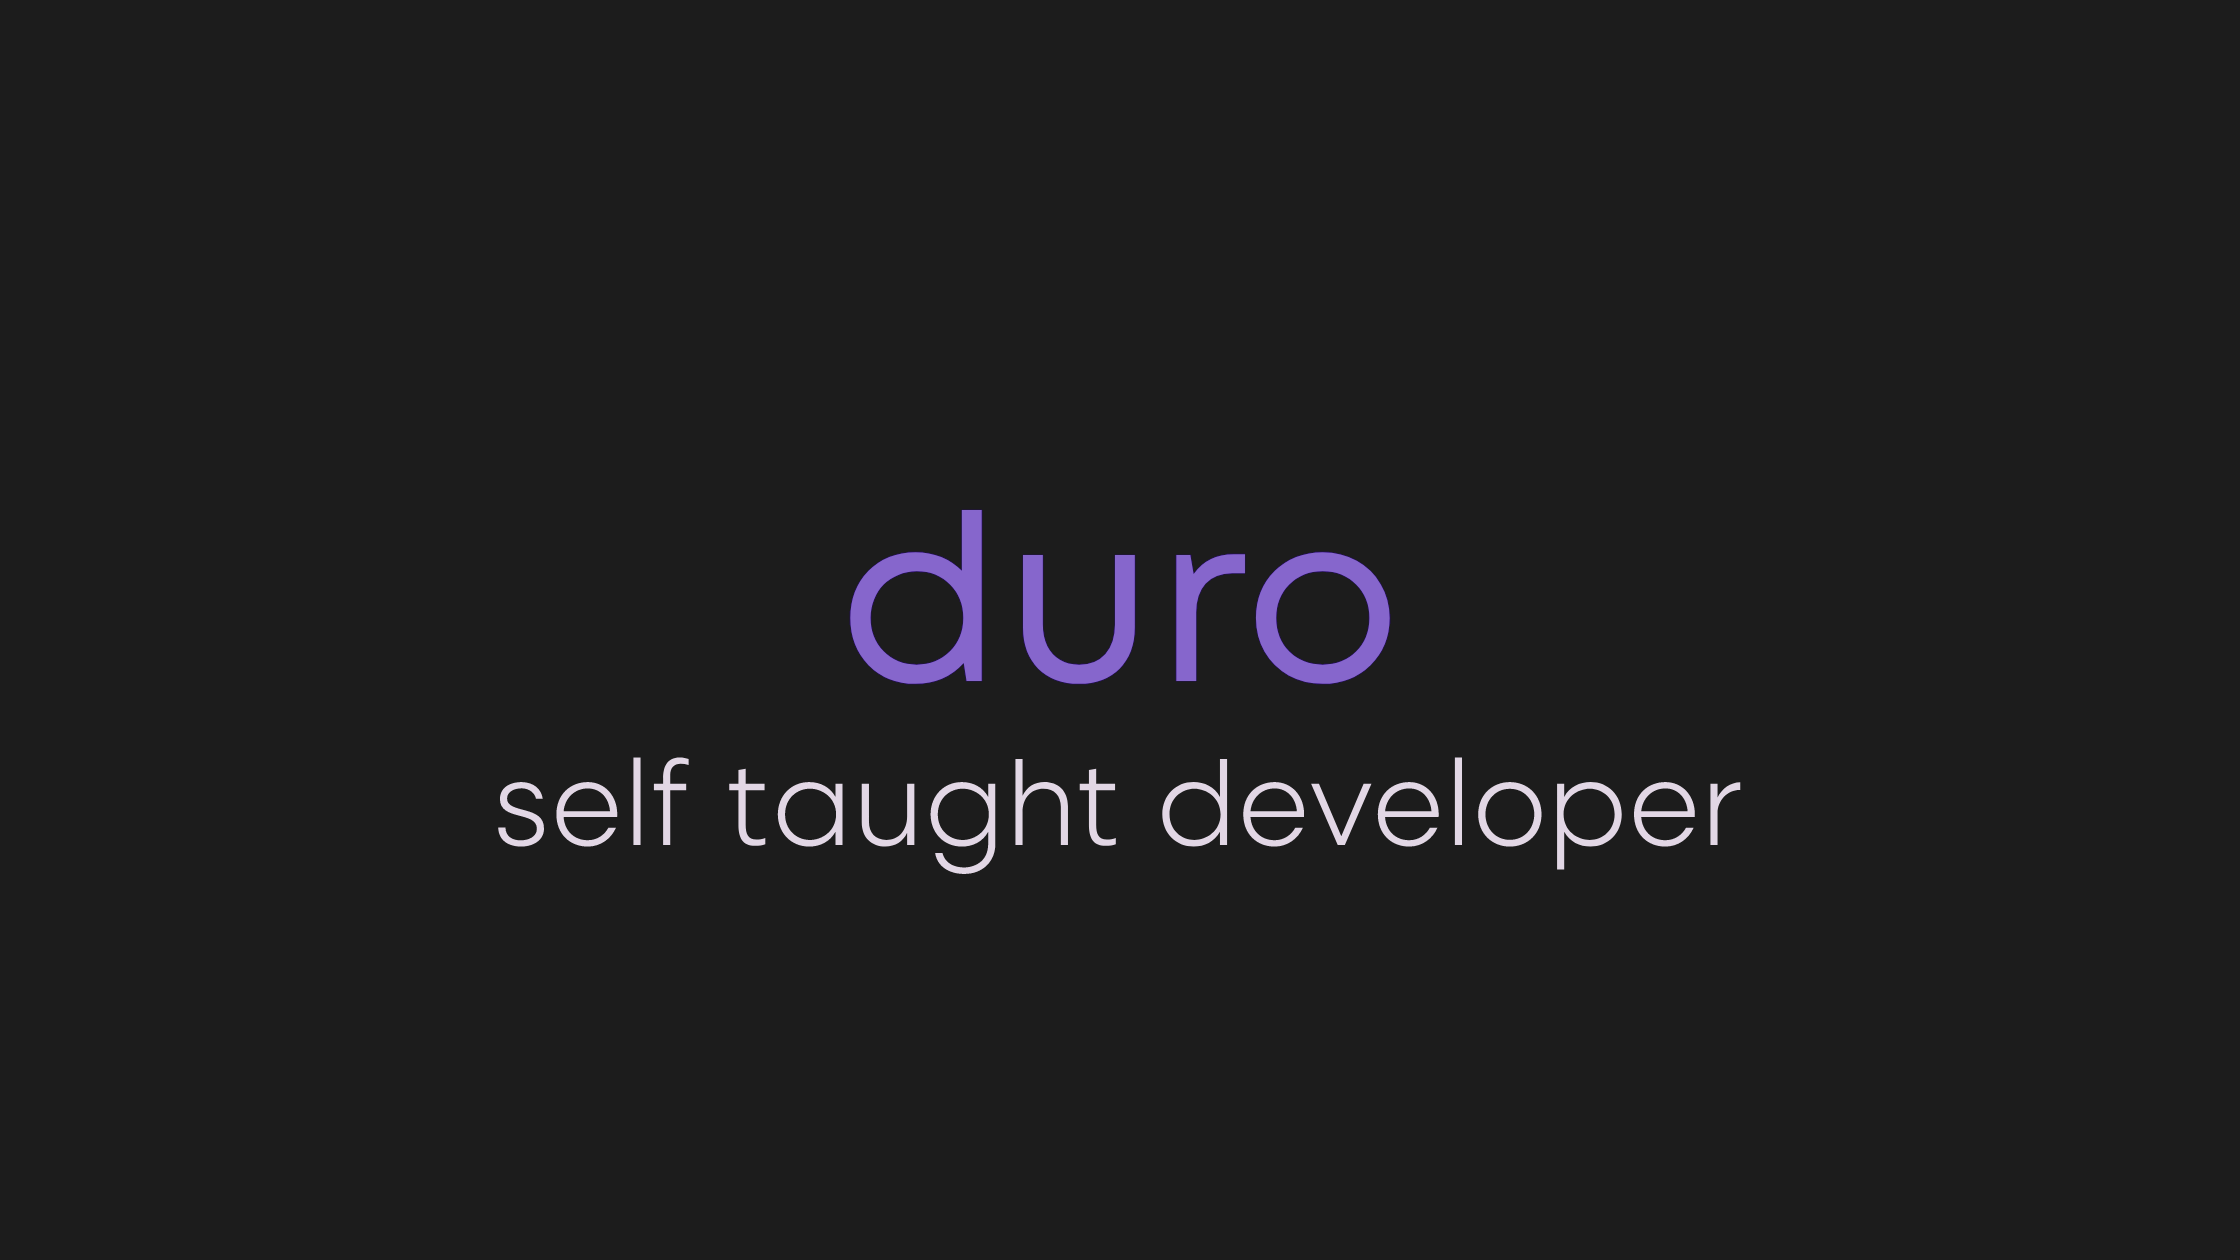
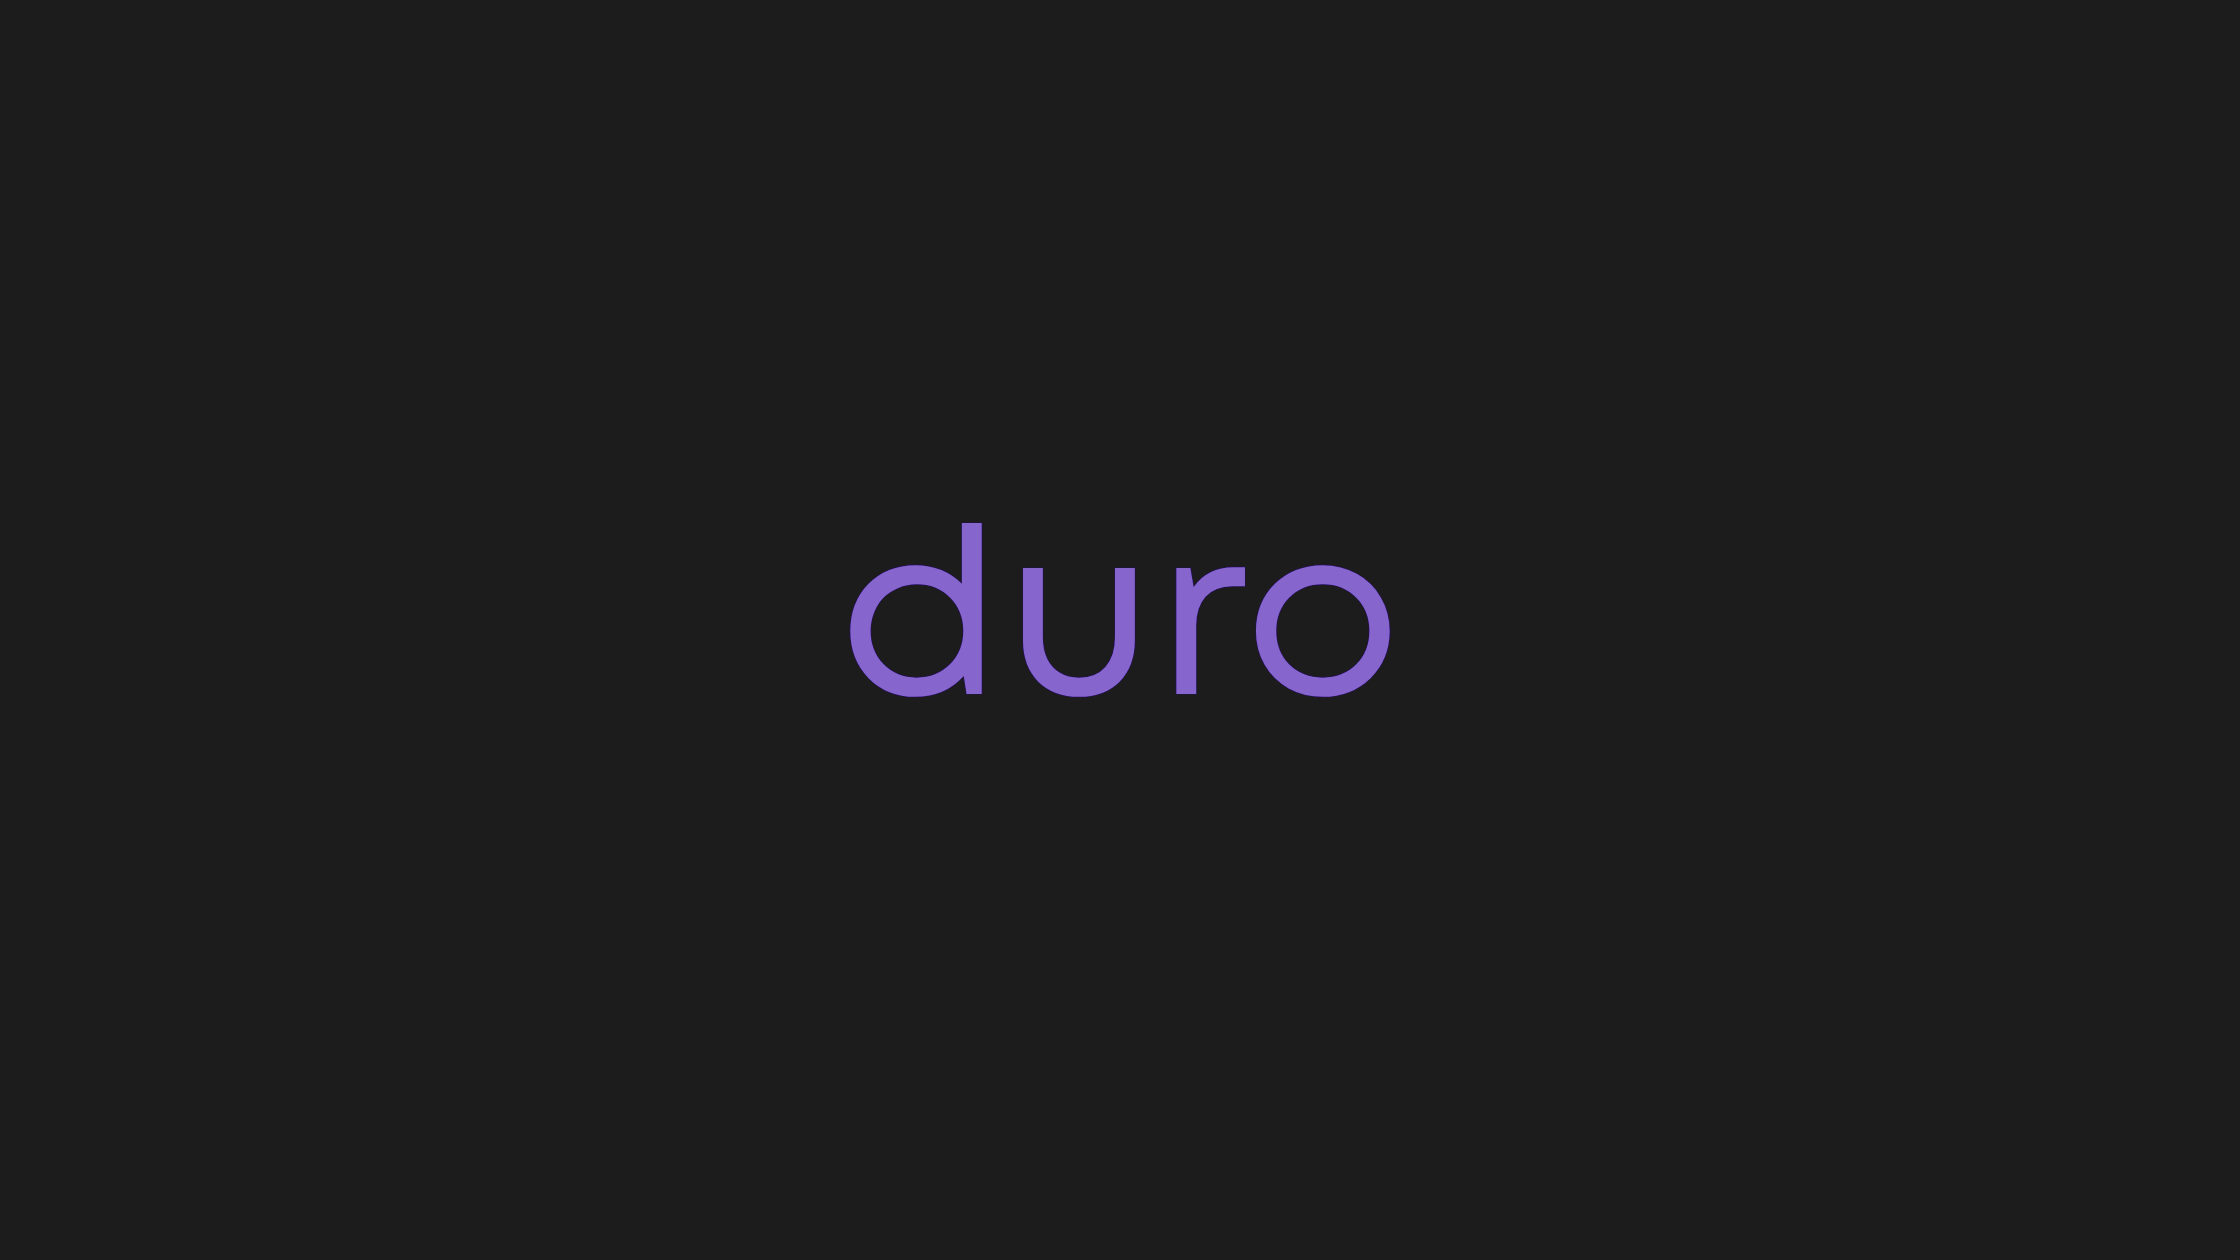
feat: update website to have work section, as well as a few other general changes

Changed region(s): [[0.2188, 0.5881, 0.7812, 0.7119], [0.375, 0.4333, 0.5312, 0.5571], [0.5, 0.4333, 0.625, 0.5571]]

diff --git a/src/pages/rss.xml.js b/src/pages/rss.xml.js
@@ -1,13 +1,27 @@
-import rss, { pagesGlobToRssItems } from "@astrojs/rss";
+import rss from "@astrojs/rss";
+import { getCollection } from "astro:content";
 
-export const GET = async (ctx) =>
-  rss({
+export const GET = async (ctx) => {
+  const posts = await getCollection("blog");
+  const items = posts
+    .filter((post) => !post.data.draft)
+    .sort(
+      (a, b) =>
+        new Date(b.data.pubDate).valueOf() -
+        new Date(a.data.pubDate).valueOf(),
+    )
+    .map((post) => ({
+      link: `/blog/${post.slug}/`,
+      title: post.data.title,
+      pubDate: new Date(post.data.pubDate),
+      description: post.data.description,
+    }));
+
+  return rss({
     title: "duro • blog",
     description: "Personal website/blog on programming",
     site: ctx.site,
-    items: await pagesGlobToRssItems(
-      import.meta.glob("./blog/**/*.{md,mdx}"),
-    ),
-    stylesheet: "/rss/styles.xsl",
+    items,
+    stylesheet: "/rss/pretty-feed-v3.xsl",
   });
-
+};

diff --git a/uno.config.ts b/uno.config.ts
@@ -3,19 +3,19 @@ import {
   presetUno,
   transformerDirectives,
   transformerVariantGroup,
-} from 'unocss';
-import { presetScrollbar } from 'unocss-preset-scrollbar';
+} from "unocss";
+import { presetScrollbar } from "unocss-preset-scrollbar";
 
 export default defineConfig({
-  presets: [presetUno(), presetScrollbar()],
+  presets: [presetUno(), presetScrollbar({ noCompatible: false })],
   transformers: [transformerDirectives(), transformerVariantGroup()],
   theme: {
     fontFamily: {
-      hack: 'Hack',
+      hack: "Hack",
     },
     colors: {
-      themeMain: '#8666cc',
-      themeBlack: '#121212',
+      themeMain: "#8666cc",
+      themeBlack: "#121212",
     },
   },
 });

diff --git a/src/config.ts b/src/config.ts
@@ -1,2 +1,2 @@
 export const SITE_TITLE = "duro •";
-export const SITE_DESCRIPTION = "self-taught developer";
+export const SITE_DESCRIPTION = "full-stack software engineer";

diff --git a/README.md b/README.md
@@ -1,7 +1,5 @@
 # Personal Website
 
-<img src="public/images/banner.png" width="560" height="315"/>
-
 ## What is it?
 
 This is a personal website built with Astro (and a little React), inspired by [AstroPaper](https://astro-paper.pages.dev/posts/).